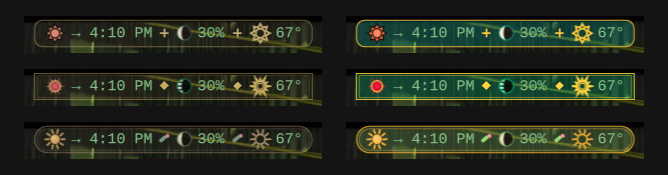
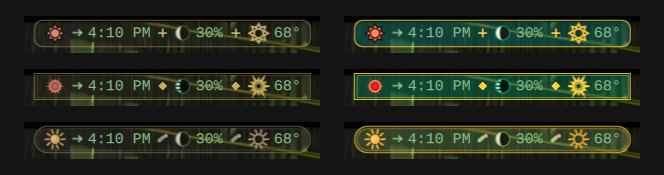
Bar hover: one model, so highlight, tooltip and click always agree
- A single HoverHandler on the button replaces seven per-item ones. Those sat
  above the shell's own hover area, so hovering an item never showed its
  tooltip while the gaps showed a generic one; every point now belongs to the
  nearest item (gaps split in the middle)
- Hover pill visible (soft fill and edge); the capsule lights only while a
  view is open; the tooltip text is built for the new item when it changes
- The Sun's next-event arrow is drawn on the row's centre line (the font's
  arrow sat low); "Click: Forecast" capitalised like Sun and Moon

diff --git a/BarWidget.qml b/BarWidget.qml
@@ -2366,10 +2366,13 @@ BarWidget {
     width: vertical ? Math.min(parent.width - Style.space(4), Style.space(26)) : pw + 2 * pad
     height: vertical ? ph + 2 * pad : Math.min(parent.height - Style.space(10), Style.space(18))
     radius: root.decoStyle ? 0 : Math.min(width, height) / 2
-    color: opened ? Qt.alpha(root.ornate ? root.barMetal : Color.accent, 0.10)
-                  : Qt.alpha(root.ornate ? root.barMetal : Color.foreground, 0.16)
-    border.width: opened ? 1 : 0
-    border.color: Qt.alpha(root.ornate ? root.barMetal : Color.accent, 0.9)
+    // Hover: a soft fill with a faint edge. Open view: a bright outline.
+    // (Click: BarGlow.) The same tone family in every theme.
+    color: opened ? Qt.alpha(root.ornate ? root.barMetal : Color.accent, 0.12)
+                  : Qt.alpha(root.ornate ? root.barMetal : Color.foreground, 0.26)
+    border.width: 1
+    border.color: opened ? Qt.alpha(root.ornate ? root.barMetal : Color.accent, 0.95)
+                         : Qt.alpha(root.ornate ? root.barMetal : Color.foreground, 0.45)
     Behavior on x { NumberAnimation { duration: Style.duration(120); easing.type: Easing.OutCubic } }
     Behavior on width { NumberAnimation { duration: Style.duration(120); easing.type: Easing.OutCubic } }
     Behavior on y { NumberAnimation { duration: Style.duration(120); easing.type: Easing.OutCubic } }
@@ -2415,6 +2418,30 @@ BarWidget {
       font.capitalization: parent.deco ? Font.AllUppercase : Font.MixedCase
       font.letterSpacing: parent.tracking
       font.italic: root.atomicStyle
+    }
+  }
+
+  // A small right arrow, drawn so it sits on the row's centre line
+  component BarArrow: Canvas {
+    property color color: Color.foreground
+    implicitWidth: Style.space(9)
+    implicitHeight: Style.space(7)
+    antialiasing: true
+    onColorChanged: requestPaint()
+    onWidthChanged: requestPaint()
+    onHeightChanged: requestPaint()
+    onPaint: {
+      var ctx = getContext("2d")
+      ctx.reset()
+      var w = width, h = height, lw = Math.max(1, h * 0.17)
+      ctx.strokeStyle = String(color)
+      ctx.lineWidth = lw
+      ctx.lineCap = "round"
+      ctx.lineJoin = "round"
+      ctx.beginPath()
+      ctx.moveTo(lw, h / 2); ctx.lineTo(w - lw, h / 2)
+      ctx.moveTo(w - h / 2, lw); ctx.lineTo(w - lw, h / 2); ctx.lineTo(w - h / 2, h - lw)
+      ctx.stroke()
     }
   }
 
@@ -3590,7 +3617,7 @@ BarWidget {
   // time after it are the next event's. The tooltip names that event.
   readonly property string barSolarText: {
     return root.barValues && root.solarData.nextEventTime
-      ? "→ " + Model.formatTime(root.solarData.nextEventTime, root.timeFormatMode, root.formatLocale) : ""
+      ? Model.formatTime(root.solarData.nextEventTime, root.timeFormatMode, root.formatLocale) : ""
   }
   readonly property string barSolarKind: root.sunPhaseKind(root.solarData.phaseKey)
 
@@ -3656,7 +3683,7 @@ BarWidget {
     interval: 20000
     // The rest is counted from the end of each pass; holds still while the
     // pointer is on the widget or the popup is open
-    running: root.barAlerting && !barTickerAnim.running && !barButton.tooltipHovered && !root.opened
+    running: root.barAlerting && !barTickerAnim.running && !root.barHovered && !root.opened
     repeat: true
     onTriggered: barTickerAnim.restart()
   }
@@ -3682,29 +3709,56 @@ BarWidget {
   }
 
   // ---- Hover and the open view, per bar item ("sun" | "moon" | "weather" | "")
-  readonly property string barHoverSeg: root.showSolarOnBar && (barSunHover.hovered || barSunVHover.hovered) ? "sun"
-    : (root.showLunarOnBar && (barMoonHover.hovered || barMoonVHover.hovered) ? "moon"
-    : (root.showWeatherOnBar && (barWeatherHover.hovered || barWeatherIconHover.hovered || barWeatherTextHover.hovered) ? "weather" : ""))
+  // ---- Hover: one model for the whole widget. A single HoverHandler on the
+  // button (it neither blocks the shell's own hover area, which owns the
+  // tooltip, nor misses the gaps); every point belongs to the nearest visible
+  // item, so the highlight, the tooltip and a click always name the same item.
+  readonly property bool barHovered: barHover.hovered
+  readonly property string barHoverSeg: barHover.hovered ? root.barSegAt(barHover.point.position.x, barHover.point.position.y) : ""
+  // The item nearest a point in the button's coordinates
+  function barSegAt(px, py) {
+    var pos = { x: px, y: py }
+    var v = root.vertical
+    var spans = v
+      ? [["sun", root.showSolarOnBar ? barSunV : null, null], ["moon", root.showLunarOnBar ? barMoonV : null, null],
+         ["weather", root.showWeatherOnBar ? barWeatherV : null, barWeatherTextV.visible ? barWeatherTextV : null]]
+      : [["sun", root.showSolarOnBar ? barSolarGroup : null, null], ["moon", root.showLunarOnBar ? barLunarGroup : null, null],
+         ["weather", root.showWeatherOnBar ? barWeatherGroup : null, null]]
+    var best = "", bestD = 1e9
+    for (var i = 0; i < spans.length; i++) {
+      var a = spans[i][1]
+      if (!a || !a.visible) continue
+      var b = spans[i][2] || a
+      var p0 = a.mapToItem(barButton, 0, 0), p1 = b.mapToItem(barButton, b.width, b.height)
+      var lo = v ? p0.y : p0.x, hi = v ? p1.y : p1.x, at = v ? pos.y : pos.x
+      var d = at < lo ? lo - at : (at > hi ? at - hi : 0)
+      if (d < bestD) { bestD = d; best = spans[i][0] }
+    }
+    return best
+  }
   readonly property string barActiveSeg: !root.opened || root.settingsOpen ? ""
     : (root.weatherOpen ? "weather" : (root.moonOpen ? "moon" : "sun"))
   // The item's own tooltip: what it shows, then what a click opens
-  readonly property string barTooltip: {
+  readonly property string barTooltip: root.barTooltipFor(root.barHoverSeg)
+  // Built from the item passed in, so a hover change can show the new text at
+  // once (the binding above may not have caught up when the change fires)
+  function barTooltipFor(seg) {
     if (root.opened) return ""
     var foot = "\n" + strings.t("tip.footer")
     var S = root.solarData, L = root.lunarData
-    if (root.barHoverSeg === "sun") {
+    if (seg === "sun") {
       return (S.nextEventName !== ""
           ? strings.t("tip.sunNext").arg(S.nextEventName).arg(Model.formatTime(S.nextEventTime, root.timeFormatMode, root.formatLocale)) + "\n" : "")
         + strings.t("tip.sunNow").arg(S.phaseName).arg(Math.round(S.altitude)).arg(Model.azimuthToCompass(S.azimuth))
         + (root.reminderText !== "" ? "\n" + root.reminderText : "")
         + "\n" + strings.t("tip.clickSun") + foot
     }
-    if (root.barHoverSeg === "moon") {
+    if (seg === "moon") {
       return strings.t("tip.moonNow").arg(L.phaseName).arg(L.illuminationPct)
         + (root.nextMoonEventText !== "" ? "\n" + root.nextMoonEventText : "")
         + "\n" + strings.t("tip.clickMoon") + foot
     }
-    if (root.barHoverSeg === "weather") {
+    if (seg === "weather") {
       var details = root.weatherDetailParts.map(function(p) { return p.text }).join(" · ")
       return root.weatherTempText + " " + root.weatherConditionText
         + (details !== "" ? "\n" + details : "")
@@ -3720,7 +3774,7 @@ BarWidget {
   // Moving from one item to the next swaps the tooltip at once
   onBarHoverSegChanged: {
     if (root.barHoverSeg !== "") root.lastBarSeg = root.barHoverSeg
-    if (root.bar && barButton.tooltipHovered && !root.opened) root.bar.showTooltip(barButton, root.barTooltip)
+    if (root.bar && barButton.tooltipHovered && !root.opened && root.barHoverSeg !== "") root.bar.showTooltip(barButton, root.barTooltipFor(root.barHoverSeg))
   }
   // The item last under the pointer. While the popup is open it holds the
   // pointer grab, so the bar gets no hover update until the pointer moves; a
@@ -3765,6 +3819,11 @@ BarWidget {
     active: root.opened
     tooltipText: root.barTooltip
 
+    HoverHandler {
+      id: barHover
+      cursorShape: Qt.PointingHandCursor
+    }
+
     onPressed: function(b) {
       root.flashBarItem(root.barClickSeg !== "" ? root.barClickSeg : "sun")
       if (b === Qt.RightButton) {
@@ -3785,7 +3844,8 @@ BarWidget {
       id: barCapsule
       visible: root.barCapsuleOn
       readonly property Item content: root.vertical ? barContentCol : barContentRow
-      readonly property bool lit: barButton.active || barButton.tooltipHovered
+      // Lit while a view is open; hover is shown on the item itself
+      readonly property bool lit: barButton.active
       anchors.centerIn: parent
       width: root.vertical
         ? Math.min(parent.width - Style.space(4), content.implicitWidth + Style.space(10))
@@ -3833,6 +3893,7 @@ BarWidget {
         pw: target ? target.width : 0
       }
       BarSegPill {
+        id: hoverPill
         readonly property Item target: root.barSegItem(root.barHoverSeg)
         shown: target !== null && target.visible && !barTickerAnim.running
         px: target ? barContentRow.x + target.x : 0
@@ -3887,11 +3948,17 @@ BarWidget {
           visible: root.showSolarOnBar
           spacing: Style.space(4)
           anchors.verticalCenter: parent.verticalCenter
-          HoverHandler { id: barSunHover }
 
           BarWeatherIcon {
             anchors.verticalCenter: parent.verticalCenter
             kind: root.barSolarKind
+          }
+
+          // "Next:" as a drawn arrow, centred on the row (the font's → sits low)
+          BarArrow {
+            visible: root.barSolarText !== ""
+            anchors.verticalCenter: parent.verticalCenter
+            color: root.useThemeColors ? barButton.foreground : Color.foreground
           }
 
           Text {
@@ -3917,7 +3984,6 @@ BarWidget {
           visible: root.showLunarOnBar
           spacing: Style.space(4)
           anchors.verticalCenter: parent.verticalCenter
-          HoverHandler { id: barMoonHover }
 
           MoonDisc {
             renderStyle: root.moonStyle
@@ -3950,7 +4016,6 @@ BarWidget {
           visible: root.showWeatherOnBar
           spacing: Style.space(3)
           anchors.verticalCenter: parent.verticalCenter
-          HoverHandler { id: barWeatherHover }
 
           BarWeatherIcon { anchors.verticalCenter: parent.verticalCenter; outline: true }
           Text {
@@ -4002,7 +4067,6 @@ BarWidget {
         visible: root.showSolarOnBar
         anchors.horizontalCenter: parent.horizontalCenter
         kind: root.sunPhaseKind(root.solarData.phaseKey)
-        HoverHandler { id: barSunVHover }
       }
 
       Rectangle {
@@ -4018,7 +4082,6 @@ BarWidget {
       MoonDisc {
         id: barMoonV
         visible: root.showLunarOnBar
-        HoverHandler { id: barMoonVHover }
         renderStyle: root.moonStyle
         anchors.horizontalCenter: parent.horizontalCenter
         discSize: 13
@@ -4033,13 +4096,11 @@ BarWidget {
         outline: true
         visible: root.showWeatherOnBar
         anchors.horizontalCenter: parent.horizontalCenter
-        HoverHandler { id: barWeatherIconHover }
       }
       Text {
         id: barWeatherTextV
         visible: root.showWeatherOnBar && root.barValues
         anchors.horizontalCenter: parent.horizontalCenter
-        HoverHandler { id: barWeatherTextHover }
         textFormat: Text.PlainText
         text: root.barTempText
         color: root.useThemeColors ? barButton.foreground : Color.foreground

diff --git a/README.md b/README.md
@@ -39,7 +39,7 @@ Pick what it shows in settings, under **Bar**:
 
 Every icon shows what is happening **now**: the Sun's is the sky's current phase (day, golden hour, blue hour, twilight or night), the Moon's its current phase. The weather icon is line-drawn in the theme's metal tone, so it never looks like one of the sky icons beside it.
 
-**Clicks:** click the Sun, Moon or weather to open its view; click the same item again to close it, or another item to switch views. Right-click opens settings, middle-click refreshes.
+**Hover and click:** every point on the capsule belongs to its nearest item (Sun, Moon or weather), so the highlight, the tooltip and a click always agree. Hovering lights that item; its tooltip says what it shows and which view a click opens. Click to open that view, click the same item again to close it, or another item to switch. The capsule itself lights up while a view is open, and the clicked item glows briefly. Right-click opens settings, middle-click refreshes.
 
 With weather on, the capsule also shows the current conditions as a small line-drawn icon and the temperature. Hover for a summary including the next moonrise or moonset and the full weather reading.
 
